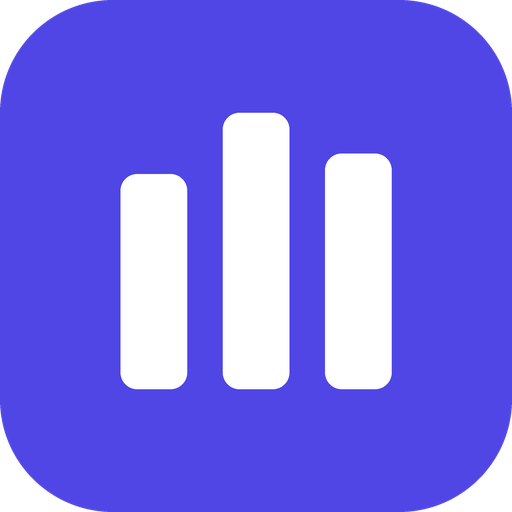
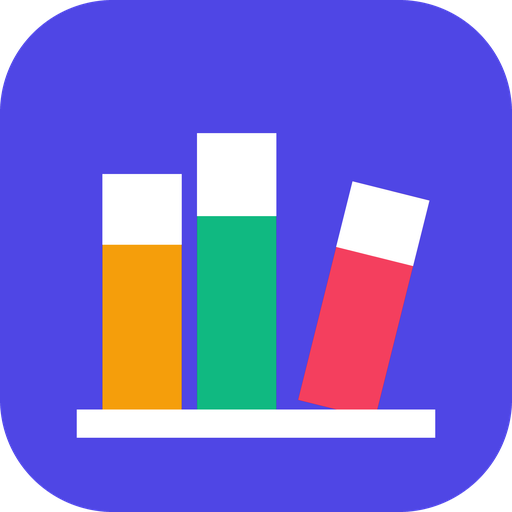
Icona con libri riconoscibili al posto delle barre astratte
L'icona precedente era un quadrato indaco con tre barre bianche verticali:
ripresa dal logo dell'app, ma alle dimensioni di una favicon si legge come un
grafico a barre, non come libri.

Nuova icona: tre libri di colore diverso su un ripiano, con il terzo
inclinato. Il colore e l'inclinazione sono cio' che li rende leggibili a 16
pixel, dove una sagoma monocromatica resta ambigua. Rigenerate tutte le
misure (16, 32, 48, 64, 128, 180, 192, 256, 512) e la favicon.ico
multi-dimensione.

Versione 3.4.

Verificato ingrandendo le versioni a 16 e 32 pixel effettivamente generate,
non solo l'originale ad alta risoluzione.

Changed region(s): [[0.125, 0.2188, 0.875, 0.875]]

diff --git a/src/App.jsx b/src/App.jsx
@@ -10,7 +10,7 @@ import {
 const appId = typeof window !== 'undefined' && window.__app_id ? window.__app_id : 'libri-di-maurizio';
 
 // Incrementare a ogni modifica rilasciata (si parte da 2.0)
-const APP_VERSION = '3.3';
+const APP_VERSION = '3.4';
 
 const STATUSES = {
   ALL: { label: 'Tutti', value: 'ALL' },
